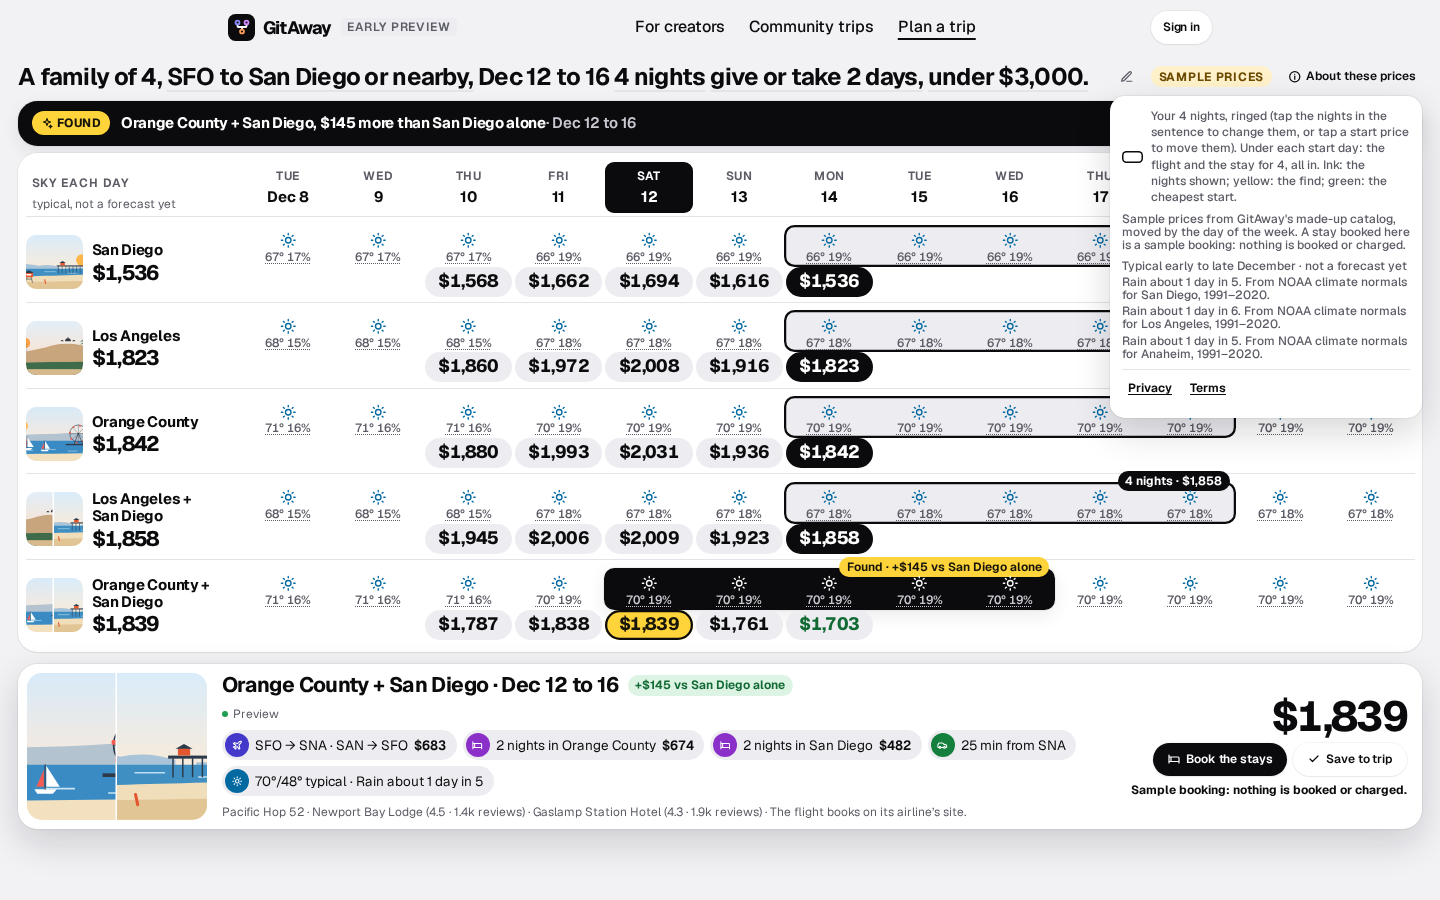
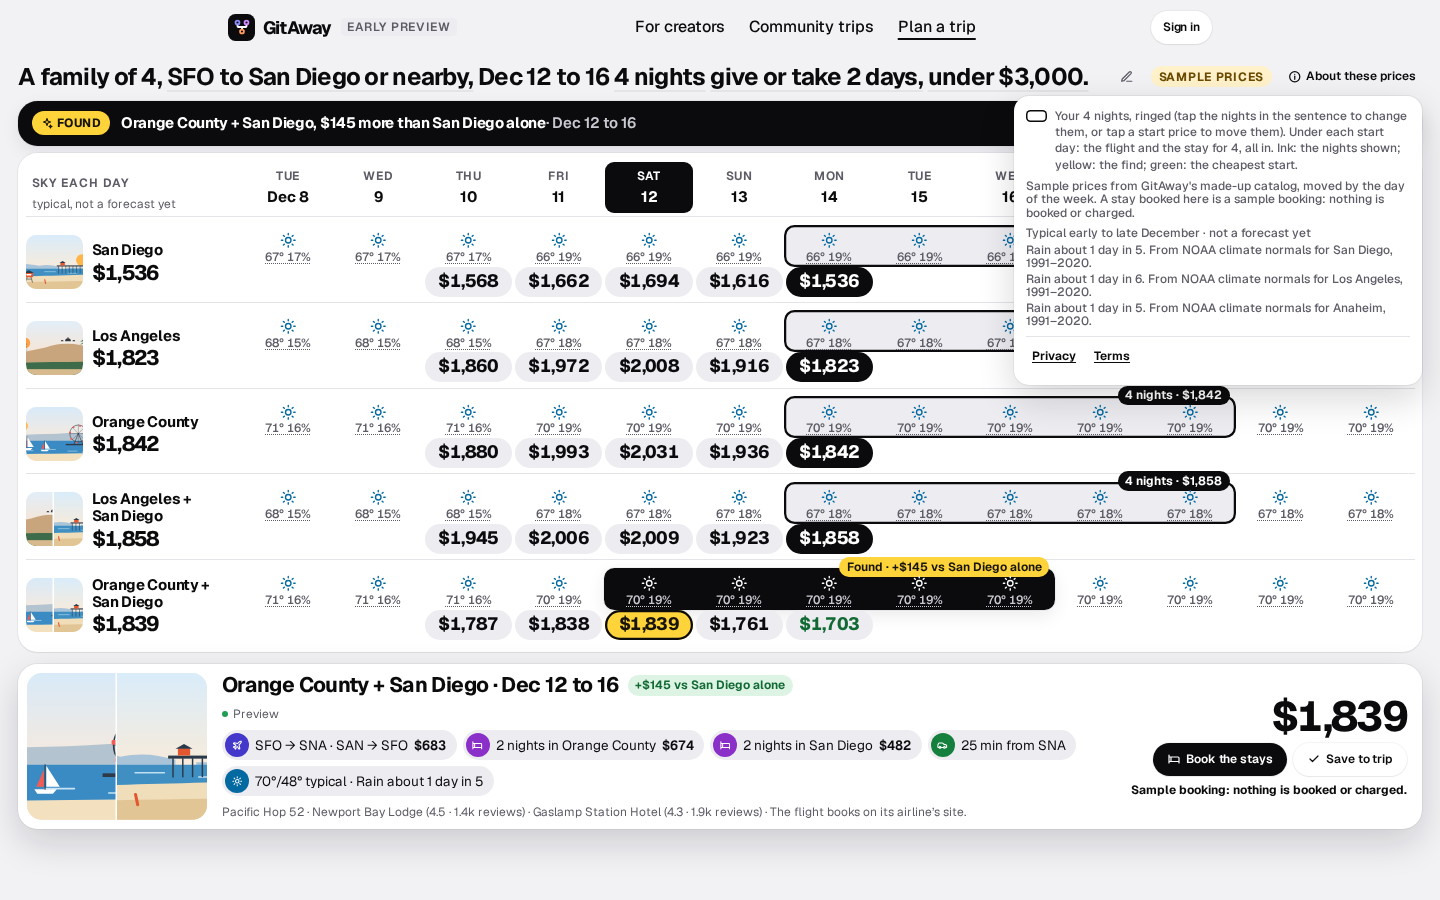
F-238: the light/dark button moves into About these prices (the footer held it)

Changed region(s): [[0.6875, 0.0933, 1.0, 0.4667]]

diff --git a/assets/css/tripmatrix.css b/assets/css/tripmatrix.css
@@ -68,7 +68,8 @@
 .mx-pop-about .mx-key-band { margin-top: 0.1875rem; align-self: flex-start; }
 .mx-legend { display: flex; align-items: center; gap: 0.625rem; margin: 0; color: var(--ink-2); font-size: max(var(--text-min), 0.9375rem); line-height: 1.35; }
 .mx-key-band { flex: none; width: 1.75rem; height: 1rem; border-radius: 0.375rem; box-shadow: inset 0 0 0 0.125rem var(--ink); }
-.mx-about-nav { display: flex; gap: 0.5rem; padding-top: 0.25rem; border-top: 1px solid var(--line); }
+.mx-about-foot { display: flex; flex-wrap: wrap; align-items: center; justify-content: space-between; gap: 0.5rem; padding-top: 0.25rem; border-top: 1px solid var(--line); }
+.mx-about-nav { display: flex; gap: 0.5rem; }
 .mx-about-nav a { display: inline-flex; align-items: center; min-height: var(--target); padding: 0 0.5rem; color: var(--ink); font-weight: 650; text-decoration: underline; text-underline-offset: 0.2em; }
 
 /* the news: the find, and a fact about the place while squares are searched */

diff --git a/gitaway/pages/tripmatrix.py b/gitaway/pages/tripmatrix.py
@@ -28,7 +28,7 @@ from starlette.responses import JSONResponse, RedirectResponse
 
 from gitaway import catalog, familydb, firstrun, gridsource, importer, liteapi, matrixwarm, placeart, placefacts, session as ses, showcase, tripmatrix as tm, tripsentence, tripstart, weather
 from gitaway.icons import icon
-from gitaway.layout import page
+from gitaway.layout import mode_switch, page
 from gitaway.pages import plan_search, weather_ui
 from gitaway.pages.skystrip import WET, WORDS, sky_strip, weather_for
 from gitaway.partners import places
@@ -515,7 +515,7 @@ def lanes_el(s: State, lanes, windows, known, marks, skies, found=None):
 
 def about_el(s: State, skies, sample: bool):
     """The one quiet "ⓘ About these prices" (F-238, D-540): what the calendar's colours mean, the weather's credit and labels (AGENTS.md: a page showing weather shows
-    weather.notes), the preview and sample fine print, and the site's Privacy and Terms, closed until it is tapped. It replaces the legend, the notes under the calendar and
+    weather.notes), the preview and sample fine print, and the site's Privacy and Terms and the one light/dark button (the footer's other tenant), closed until it is tapped. It replaces the legend, the notes under the calendar and
     the cards, the fine print and the site footer."""
     notes = list(dict.fromkeys(text_href for tw in skies.values() for text_href in weather.notes(tw)))
     return Details(Summary(icon("info", 18, 2.2), Span("About these prices"), cls="mx-about-btn"),
@@ -523,7 +523,7 @@ def about_el(s: State, skies, sample: bool):
                          f"Under each start day: the flight and the stay for {s.travelers}, all in. Ink: the nights shown; yellow: the find; green: the cheapest start."), cls="mx-legend"),
                        P(SAMPLE_FINE if sample else FINE, cls="mx-foot-n"),
                        Div(*[A(text, href=to, rel="noopener", cls="mx-wx-n") if to else Span(text, cls="mx-wx-n") for text, to in notes], cls="mx-wx") if notes else "",
-                       Nav(A("Privacy", href="/privacy"), A("Terms", href="/terms"), cls="mx-about-nav", aria_label="Legal"), cls="mx-pop mx-pop-about"),
+                       Div(Nav(A("Privacy", href="/privacy"), A("Terms", href="/terms"), cls="mx-about-nav", aria_label="Legal"), mode_switch("about"), cls="mx-about-foot"), cls="mx-pop mx-pop-about"),
                    cls="mx-tk mx-about", data_pop="about")
 
 

diff --git a/tests/test_tripmatrix_page.py b/tests/test_tripmatrix_page.py
@@ -246,6 +246,7 @@ def test_the_weathers_credit_and_labels_are_one_tap_away_in_about_these_prices_f
     assert "About these prices" in about.split("</summary>", 1)[0] and 'class="mx-wx"' in about and 'class="mx-legend"' in about
     assert "NOAA" in about and "not a forecast" in about and page.SAMPLE_FINE in about and "ringed" in about
     assert 'href="/privacy"' in about and 'href="/terms"' in about and "ga-footer" not in html
+    assert 'data-mode-toggle="1"' in about and html.count("data-mode-toggle") == 1               # the footer held the one light/dark button (D-460); it lives here now
 
 
 def test_the_matrix_says_nothing_twice_no_route_under_every_lane_and_no_sample_badge_in_the_bar(sample, client):

diff --git a/tests_browser/test_tripmatrix.py b/tests_browser/test_tripmatrix.py
@@ -596,6 +596,8 @@ def test_about_these_prices_holds_the_legend_the_credit_the_fine_print_privacy_a
         box = panel.bounding_box()
         assert box["x"] >= 0 and box["x"] + box["width"] <= viewport["width"] + 0.5, box
         assert page.evaluate("document.documentElement.scrollWidth <= document.documentElement.clientWidth + 1")
+        page.click(".mx-pop-about .ga-mode")                                          # the footer's one light/dark button lives here now (D-460)
+        assert page.evaluate("document.documentElement.dataset.mode") == "dark"
 
 
 def test_a_key_pressed_three_times_asks_once_for_where_it_stopped(matrix, stand):

diff --git a/docs/decisions.md b/docs/decisions.md
@@ -484,6 +484,6 @@
 - D-534 · The calendar is drawn to the longest trip the slider allows; the days a shorter trip does not reach are `is-off` (hidden, their sky already drawn) and `--mx-days` counts the shown ones, so sliding up never waits for weather and the band never passes the grid's edge. Changed test: `test_each_place_wears_its_art…` and the laptop sky test count the shown days (13), not every drawn one.
 - D-535 · Reviewer fixes from F-236: (1) from 1020px on a coarse pointer (a tablet on its side) the start prices and the slider are 48px (`@media (pointer: coarse)`), a mouse keeps the compact pills; (2) a browser test at 1100px checks the band's words sit inside the band and the bar's chips inside the bar; (3) the floating "While we search" note's `bottom` was a magic `15rem`: the script sets `--mx-bar-h` (the bar's top to the screen's bottom, from a ResizeObserver and a passive scroll and resize listener batched in one animation frame) and the CSS puts the note 0.75rem above it, so it follows the bar wherever it is and never sits on it.
 ## F-238 the matrix, more minimal (2026-11-14, founder: "the slider should be part of the sentence: they click 3 nights and a drop-down shows a slider … there are privacy terms at the bottom and lines of text people are not going to see: what is the purpose of wasting that real estate?"; numbered from D-540)
-- D-540 · The foot of the matrix is gone: the legend, the weather's credit and labels, the preview and sample fine print and the site footer's Privacy and Terms fold into one quiet "ⓘ About these prices" (`pages/tripmatrix.py` `about_el`, a `details` in the top row beside the sample badge) that opens on tap, a popover over the page. `layout.page(footer=False)` leaves the site footer off the matrix (the blank "say it again" page and the square's own page keep it). The credits AGENTS.md requires (`weather.notes`) are in the panel, one tap away; the labels that matter stay where they are read: dotted typical weather and "typical, not a forecast yet" over the calendar, "about" on estimates, "Sample prices" in the top row, "Sample booking" in the bar. The cards' and the calendar's own copies of the notes, `key_el` and `.mx-foot` are deleted. Works without script (native `details`).
+- D-540 · The foot of the matrix is gone: the legend, the weather's credit and labels, the preview and sample fine print and the site footer's Privacy and Terms fold into one quiet "ⓘ About these prices" (`pages/tripmatrix.py` `about_el`, a `details` in the top row beside the sample badge) that opens on tap, a popover over the page. `layout.page(footer=False)` leaves the site footer off the matrix (the blank "say it again" page and the square's own page keep it). The credits AGENTS.md requires (`weather.notes`) are in the panel, one tap away; the labels that matter stay where they are read: dotted typical weather and "typical, not a forecast yet" over the calendar, "about" on estimates, "Sample prices" in the top row, "Sample booking" in the bar. The cards' and the calendar's own copies of the notes, `key_el` and `.mx-foot` are deleted. The footer also held the one light/dark button (D-460), so the panel carries it (`mode_switch("about")`); the matrix is still switchable. Works without script (native `details`).
 - D-541 · A minimal pass, said so it can be argued with. Removed: the route line ("SFO → SAN") under every lane's name and on every phone card (the sentence says it once and the bar's flight chip says it for the opened square); the "Preview" dot and age in the top row (the panel says prices are a preview, the bar keeps "Preview · 3 min ago"); the count "25 of 25 in" once every square is in (it shows only while squares come in: `data-waiting`); the "Sample prices" badge in the laptop's bar (the top row's badge and the bar's own "Sample booking: nothing is booked or charged." say it; the phone's sheet and the square's page keep theirs, having no top row). Kept because they earn it: the find banner, the band's words, "typical, not a forecast yet", the estimate note while sliding.
 - D-542 · "4 nights" is a word of the sentence like the others (`nights_pop`, a `details` in the same `_pop` family): tapping it opens a small popover with the one 2 to 7 range input (ends labelled), on a phone and on a laptop. The inline slider, the phone cards' sliders and `nights_el` are deleted. Every F-237 behaviour is unchanged (D-530 to D-535: estimates while sliding, real prices on release after `COMMIT_MS`, `stores[n]`, `r` in the address); the script's `[data-nights-out]` words (the sentence's word, the legend) follow. Without script the popover holds the `<noscript>` chips (plain links to each nights). Every word popover now floats (`position: absolute` under its word, never pushing the matrix down; on a phone as wide as the sentence so none runs off the screen), grows out of its word with `GA.motion.open` (liquid at every width on the matrix, D-439; a fade under reduced motion), and goes away on a tap elsewhere, on Escape or when another opens. Tests changed because this replaces what they checked (none weakened): the F-237 slider tests drive the slider through the word's popover (`open_nights`); "the phone's cards carry the same slider" became "nights is a word on the phone and the laptop that opens the only slider"; the "notes under the cards" tests became "inside about these prices"; the scrolled-past test passes the second card instead of the third because the page is shorter without its foot; the bar-top note test now also watches the page's height (`ResizeObserver` on `#mx`) since the bar's top moves when what is above it changes.
